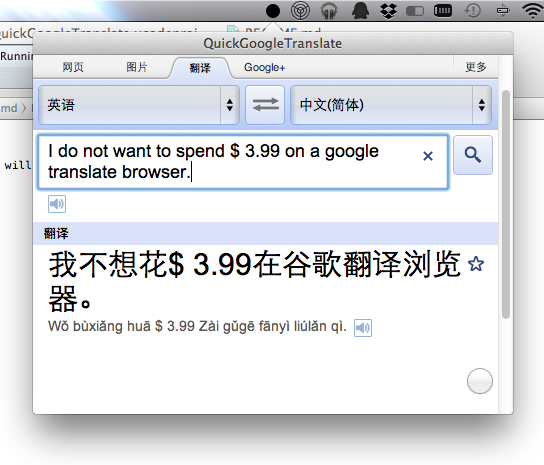
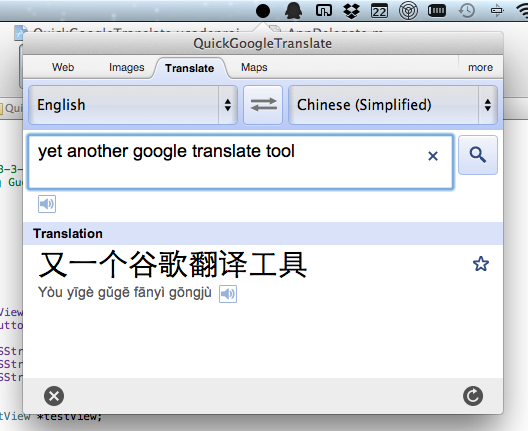
Update scrennshot and readme

diff --git a/README.md b/README.md
@@ -8,14 +8,22 @@ ScreenShot:
 ###Features:
 
 * Open Souce and **FREE**
-* OBMenuBarWindow Features check [this](https://github.com/obolton/OBMenuBarWindow)
+* OBMenuBarWindow Features, check [this](https://github.com/obolton/OBMenuBarWindow)
 
 ###How to use:
 
-* Click the Black Circle on the system staus bar to open.
-* Click the Round Button at the lower right corner to reload page.
+* Black round icon on the system staus bar: open window.
+* Bottom left: close 
+* Bottom right: refresh
+
+###Why use mobile version
+
+* faster for Chinese people
+* need time to learn css
 
 ###Shortcut/Hotkeys
+
+( Thanks to [DDHotKey](https://github.com/davedelong/DDHotKey) )
 
 ####Global:
 
@@ -26,8 +34,6 @@ ScreenShot:
 * Command + return: Translate (Same as click the Magnifier button)
 
 
-PS.
-You can actually use this to visit Google+
 
 
 
